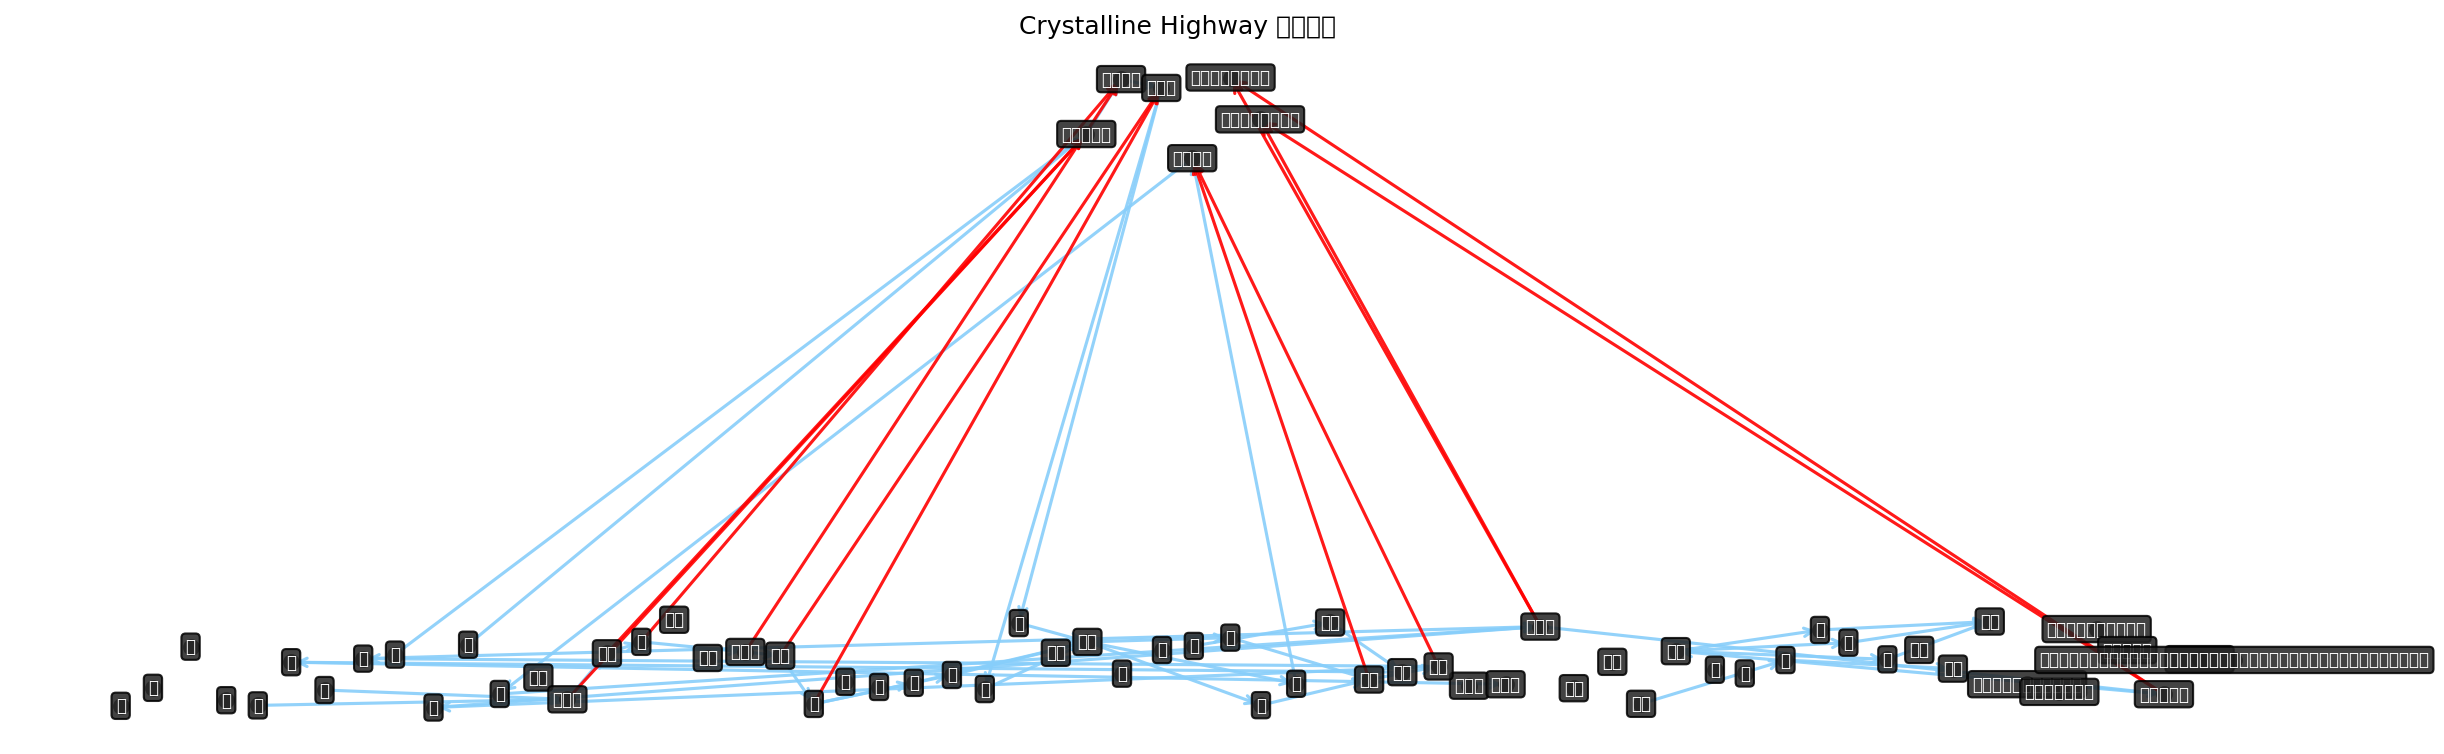
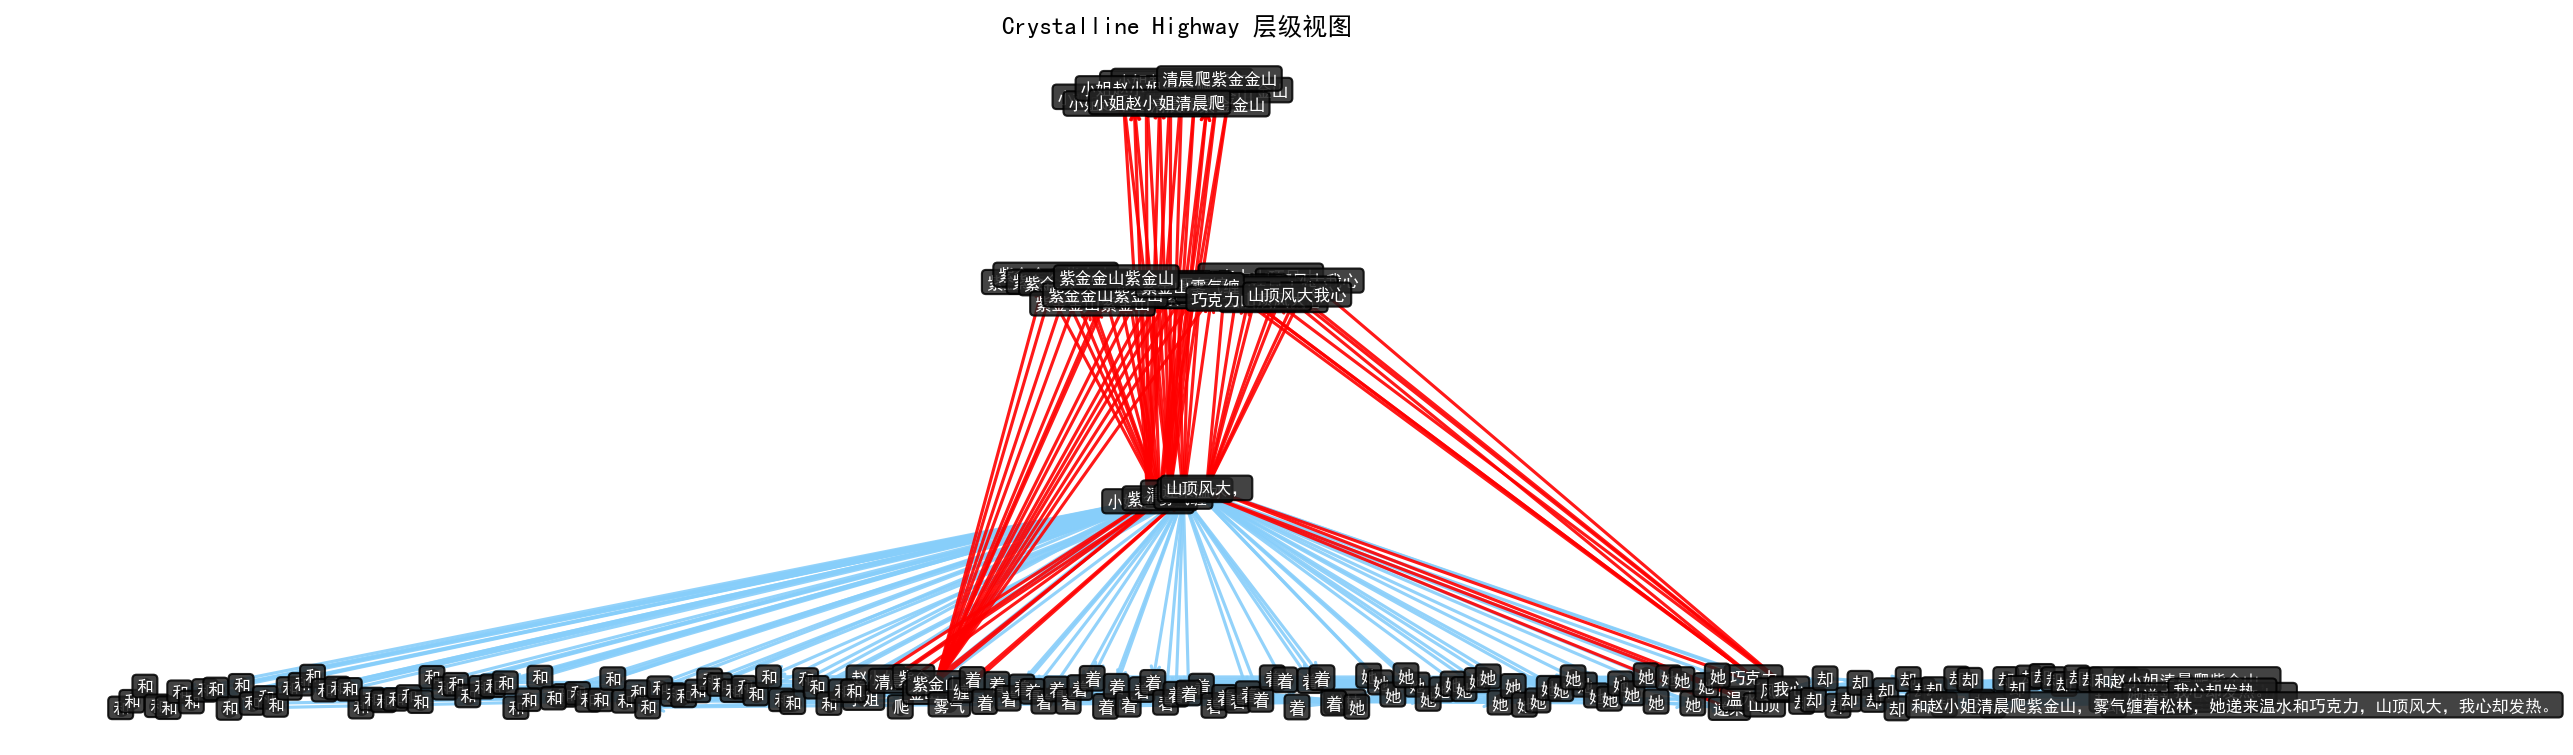
中文问题修复，上来先创建实例的问题修复，但带来更多问题
1. 查询逻辑“改正坐姿”
   - 以前：查询也会走“寻找+半径+新建实例”这条路，结果一查就顺便注册了新东西，难怪会看到“容忍半径”。
   - 现在：查询只走“图上寻路”，不再触发半径与新建。横向可左右通行，纵向只走出边；每一步 TTL - 1，TTL 默认改为 10。
   - 结果：查询更像“在地图上找路”，背诵更像“修路”，角色分得更清楚。

2. 背诵逻辑“从碎片开始”
   - 以前：短语/句子/全文一上来就直接注册进词典，像是“老师还没讲，学生先交卷”。
   - 现在：只允许最小分词（morpheme）直接创建；大块文本只有在多轮背诵仍无法固化时才“万般无奈补注册”。
   - 背诵时统一从最小分词开始走路径，保证“从零碎到长句”的次序。

3. 图片生成器“会说中文”
   - 增加了中文字体探测与配置：常见中文字体只要系统里有，就能正确显示。
   - 结论：图里不再出现“口口口”，中文终于回来了。

diff --git a/src/crystalline_highway/core/memory_system.py b/src/crystalline_highway/core/memory_system.py
@@ -224,11 +224,12 @@ class MemorySystem:
             for unit in plan:
                 self._register_unit(unit)
                 # 每个层级单元都必须收敛：也就是它们作为“寻找目标”已被注册到词典中。
-                tokens = self.segmenter.segment_words(unit.normalized_text)
+                tokens = self.segmenter.segment_morphemes(unit.display_text)
                 self.recite_sequence(tokens)
             if self._check_converged(plan):
                 self._tag_converged(plan)
                 return
+        self._force_register_unresolved(plan)
         self._tag_converged(plan)
 
     def _check_converged(self, plan) -> bool:
@@ -250,10 +251,15 @@ class MemorySystem:
     def _register_unit(self, unit) -> None:
         if not unit.normalized_text:
             return
-        meta = self.registry.ensure_meta(
-            unit.display_text,
-            normalized_text=unit.normalized_text,
-        )
+        if unit.label == "morpheme":
+            meta = self.registry.ensure_meta(
+                unit.display_text,
+                normalized_text=unit.normalized_text,
+            )
+        else:
+            meta = self.store.meta_table.get(unit.normalized_text)
+            if meta is None:
+                return
         if not meta.instances:
             radius = self._dynamic_radius(unit.display_text)
             self._create_instance_near(
@@ -261,6 +267,26 @@ class MemorySystem:
                 vector.zero_vector(self.config.vector_dim),
                 radius,
             )
+
+    def _force_register_unresolved(self, plan) -> None:
+        """背诵轮次耗尽时才补注册，避免大块文本一上来就落词典。"""
+
+        for unit in plan:
+            if not unit.normalized_text:
+                continue
+            if unit.normalized_text in self.store.meta_table:
+                continue
+            meta = self.registry.ensure_meta(
+                unit.display_text,
+                normalized_text=unit.normalized_text,
+            )
+            if not meta.instances:
+                radius = self._dynamic_radius(unit.display_text)
+                self._create_instance_near(
+                    unit.display_text,
+                    vector.zero_vector(self.config.vector_dim),
+                    radius,
+                )
 
     def _private_typical_frequency(self) -> float:
         return private_typical(
@@ -325,13 +351,11 @@ class MemorySystem:
         """检索/回忆流程，返回候选节点及其来源。"""
 
         session = SessionState(ttl_budget=self.config.retrieval_ttl)
-        seed_nodes: List[InstanceNode] = []
-        center = vector.zero_vector(self.config.vector_dim)
         tokens = [token for token in query_tokens if normalize_text(token)]
         tokens = self._prefer_longer_tokens(list(tokens))
-        for token in tokens:
-            node = self._ensure_instance(token, center)
-            seed_nodes.append(node)
+        seed_nodes = self._resolve_query_seed_nodes(tokens)
+        if not seed_nodes:
+            return {}
         # 多源扩散
         frontier = [(node.node_id, session.ttl_budget) for node in seed_nodes]
         for node in seed_nodes:
@@ -352,6 +376,21 @@ class MemorySystem:
                 frontier.append((neighbor_id, next_ttl))
         ranked = sorted(session.light_count.items(), key=lambda item: -item[1])
         return self._collect_retrieval_results(ranked, session)
+
+    def _resolve_query_seed_nodes(self, tokens: List[str]) -> List[InstanceNode]:
+        """查询态仅用已有实例，不在词典中落新点。"""
+
+        seed_nodes: List[InstanceNode] = []
+        for token in tokens:
+            meta = self.store.meta_table.get(normalize_text(token))
+            if meta is None:
+                continue
+            candidates = [self.store.instance_table[node_id] for node_id in meta.instances]
+            if not candidates:
+                continue
+            candidates.sort(key=lambda node: -node.stats.use_count)
+            seed_nodes.append(candidates[0])
+        return seed_nodes
 
     def _save_if_needed(self) -> None:
         if self.config.storage_auto_save:

diff --git a/scripts/visualize_hierarchy.py b/scripts/visualize_hierarchy.py
@@ -124,8 +124,33 @@ def render_plot(
 ) -> None:
     try:
         import matplotlib.pyplot as plt
+        from matplotlib import font_manager, rcParams
     except ImportError as exc:  # pragma: no cover - 可选依赖
         raise SystemExit("缺少 matplotlib，请先安装后再运行可视化脚本。") from exc
+
+    def configure_chinese_font() -> None:
+        candidates = [
+            "Noto Sans CJK SC",
+            "Noto Sans CJK",
+            "Source Han Sans SC",
+            "SimHei",
+            "Microsoft YaHei",
+            "WenQuanYi Zen Hei",
+            "PingFang SC",
+            "Arial Unicode MS",
+        ]
+        for name in candidates:
+            try:
+                font_path = font_manager.findfont(name, fallback_to_default=False)
+            except ValueError:
+                continue
+            if Path(font_path).exists():
+                rcParams["font.family"] = name
+                rcParams["font.sans-serif"] = [name]
+                rcParams["axes.unicode_minus"] = False
+                return
+
+    configure_chinese_font()
 
     max_nodes = max((len(instance_nodes), 1))
     max_layer = max(

diff --git a/src/crystalline_highway/core/recitation.py b/src/crystalline_highway/core/recitation.py
@@ -36,6 +36,8 @@ class RecitationPlanner:
     def build_plan(self, text: str) -> List[RecitationUnit]:
         """先拆分、再倒序输出用于背诵的单元序列。"""
 
+        # 0) 最小词素：用于“从零碎开始背诵”的底层输入。
+        morphemes = self.segmenter.segment_morphemes(text)
         # 1) 段落：仅按换行拆分，保留原标点。
         paragraphs = self.segmenter.split_paragraphs(text)
         # 2) 长句：只按句号/问号/感叹号等句末标点拆分。
@@ -48,6 +50,14 @@ class RecitationPlanner:
         )
 
         plan: List[RecitationUnit] = []
+        for morpheme in morphemes:
+            plan.append(
+                RecitationUnit(
+                    display_text=morpheme,
+                    normalized_text=normalize_text(morpheme),
+                    label="morpheme",
+                )
+            )
         # 4) 短语：由分词器输出的词条序列（比最小词素更大）。
         for clause in short_sentences:
             for phrase in self.segmenter.segment_words(clause.display_text):

diff --git a/src/crystalline_highway/config.py b/src/crystalline_highway/config.py
@@ -15,8 +15,8 @@ class MemoryConfig:
     vector_dim: int = 200
     # 频率与半径的基本常量，用于将频率映射成容忍度
     radius_base: float = 1.0
-    radius_floor: float = 0.05
-    radius_ceiling: float = 5.0
+    radius_floor: float = 0.0
+    radius_ceiling: float = 100.0
     # 频率映射命中概率（典型词命中率）
     frequency_hit_probability: float = 0.5
     # 私人频率影响强度与上限
@@ -49,7 +49,7 @@ class MemoryConfig:
     # 固化阈值：一段路径被走过的次数达到该值触发固化
     crystallize_threshold: int = 2
     # 检索时的 TTL 基础步数
-    retrieval_ttl: int = 4
+    retrieval_ttl: int = 10
     # hub 惩罚的最大上限，避免绝对封死
     hub_penalty_cap: float = 2.0
     # 固化元初始容忍度放大系数
